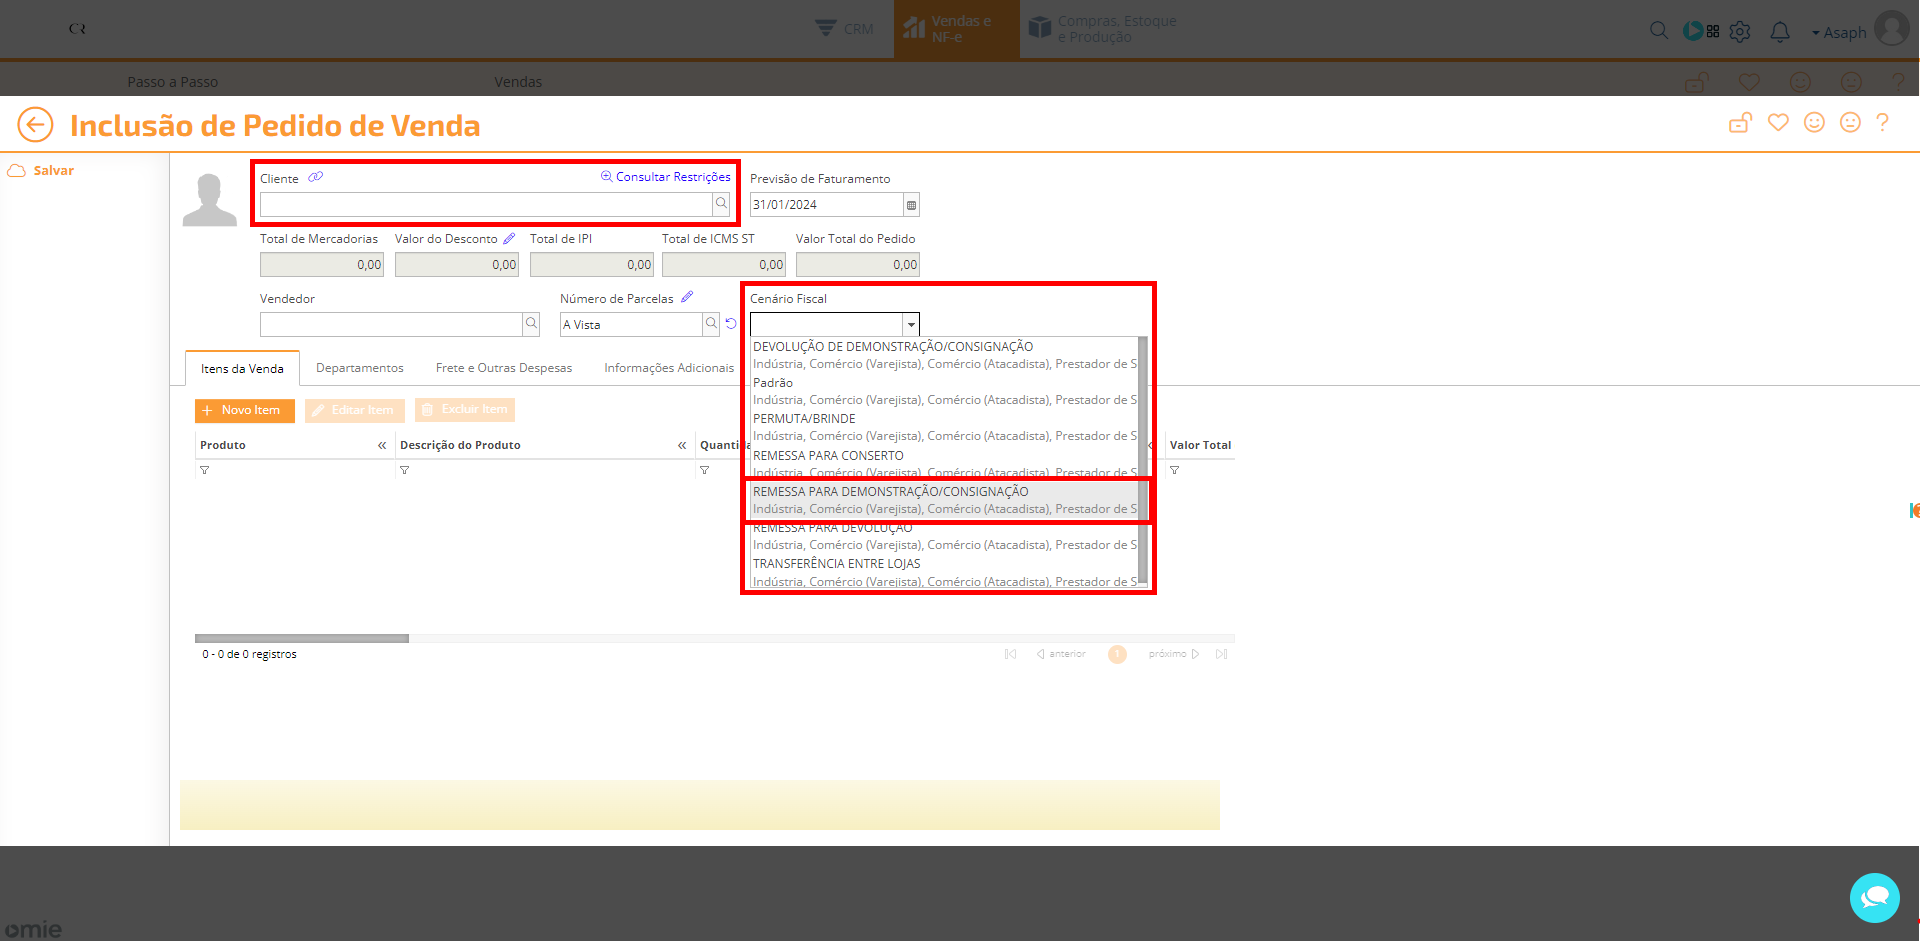
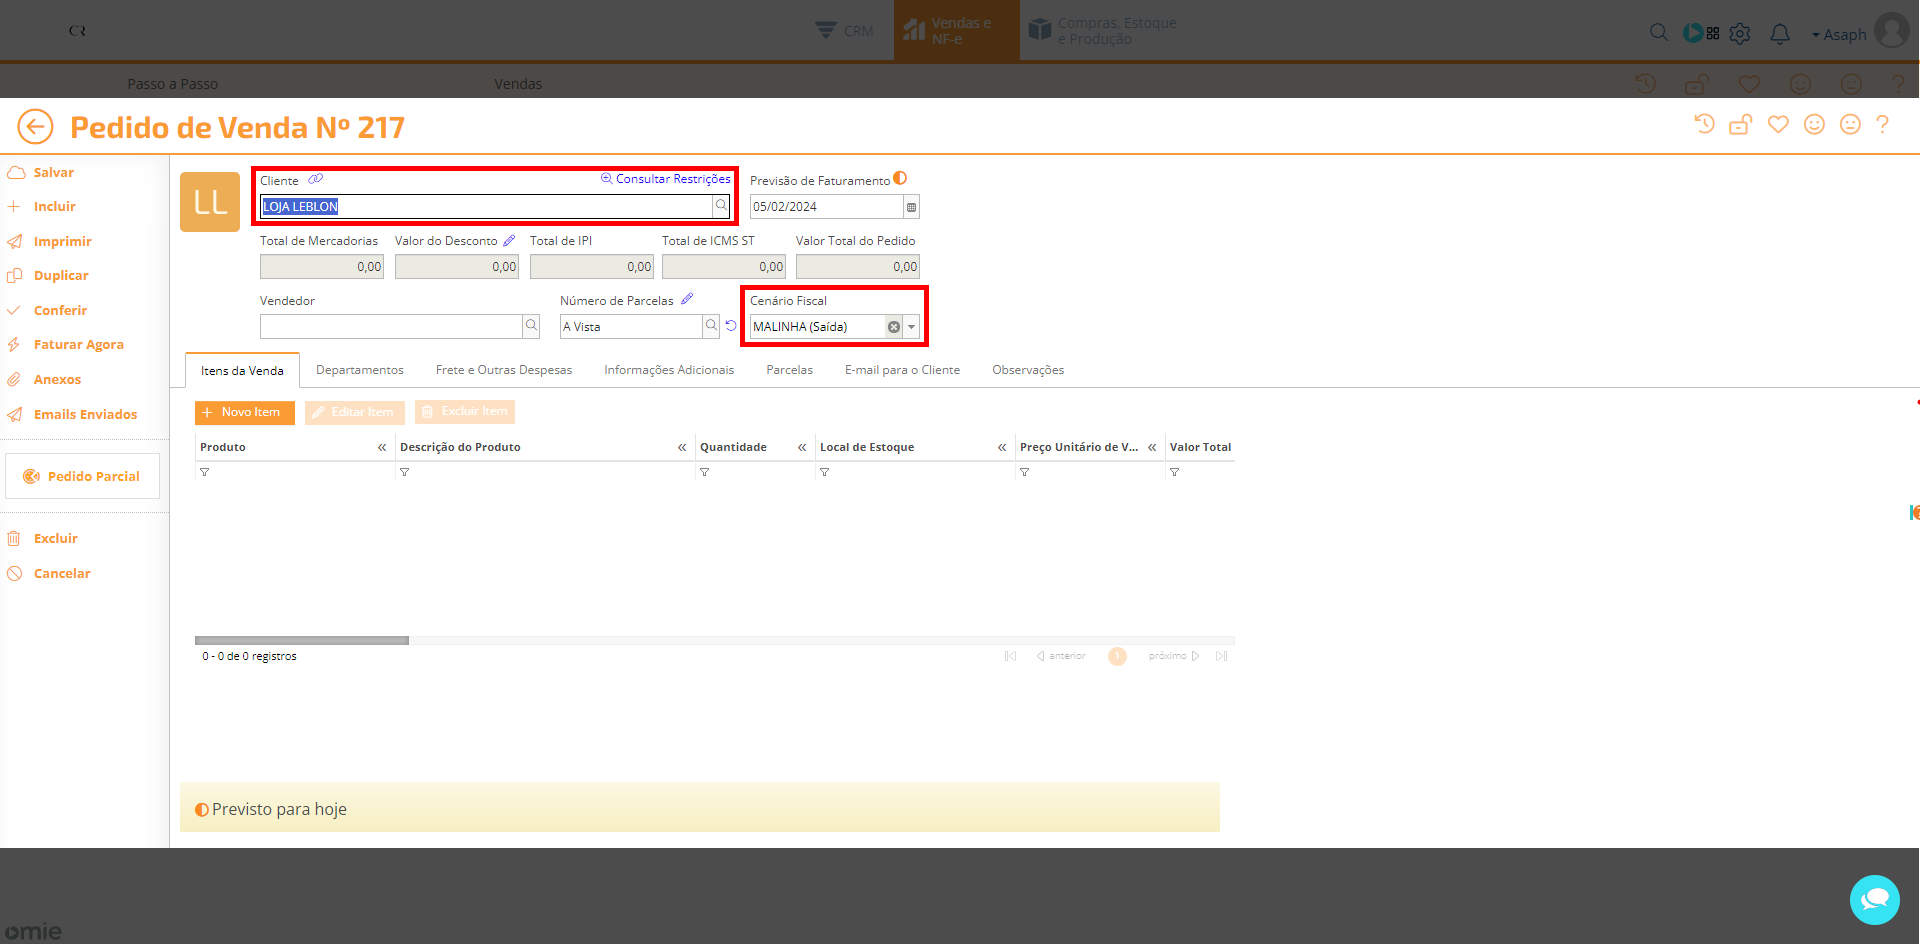
1.1.1 - construção malinha

diff --git a/erpIndex.html b/erpIndex.html
@@ -1,12 +1,18 @@
-<li class="navigation" onclick="loadPage(entradaDeNotas)">Entrada de notas</li>
-<li class="navigation" onclick="loadPage(emissaoDeNotas)">Emissão de notas</li>
-<ul>
-    <li class="navigation" onclick="loadPage(transferencia)">Transferências</li>
+<li class="reverted"><span class="navigation" onclick="loadPage(entradaDeNotas)">Entrada de notas</span>
     <ul>
-        <li class="navigation" onclick="loadPage(transferenciaEntreLojas)">Entre lojas</li>
-        <!-- <li class="navigation" onclick="loadPage(transferenciaParaMatriz)">Para matriz</li> -->
+        <li>Novo item</li>
     </ul>
-    <li class="navigation" onclick="loadPage(devolucao)">Devolução</li>
-    <!-- <li class="navigation" onclick="loadPage(malinha)">Malinha</li> -->
-    <!-- <li class="navigation" onclick="loadPage(demonstracao)">Remessa para Demonstração</li> -->
-</ul>
+</li>
+<li class="reverted"><span  class="navigation" onclick="loadPage(emissaoDeNotas)">Emissão de notas</span>
+    <ul>
+        <li><span class="navigation" onclick="loadPage(transferencia)">Transferências</span>
+            <ul>
+                <li class="navigation" onclick="loadPage(transferenciaEntreLojas)">Entre lojas</li>
+                <!-- <li class="navigation" onclick="loadPage(transferenciaParaMatriz)">Para matriz</li> -->
+            </ul>
+        </li>
+        <li class="navigation" onclick="loadPage(devolucao)">Devolução</li>
+        <li class="navigation" onclick="loadPage(malinha)">Malinha</li>
+        <!-- <li class="navigation" onclick="loadPage(demonstracao)">Remessa para Demonstração</li> -->
+    </ul>
+</li>

diff --git a/index.html b/index.html
@@ -28,15 +28,15 @@
         <main>
             <section>
                 <p>Esse é o manual de uso do sistema. Veja o índice para acessar a página que melhor lhe atende:</p>
-                <ul>
+                <ul class="main-nav">
                     <li class="navigation" onclick="loadPage(erp)">ERP</li>
-                    <ul class="erpIndex"></ul>
-                    <!-- <li class="navigation" onclick="loadPage(pdv)">PDV</li>
-                    <ul class="pdvIndex"></ul> -->
-                    <!-- <li class="navigation" onclick="loadPage(troca)">Troca</li>
-                    <ul class="trocaIndex"></ul> -->
-                    <!-- <li class="navigation" onclick="loadPage(preVenda)">Pré Venda</li>
-                    <ul class="preVendaIndex"></ul> -->
+                    <ul class="erpIndex sub-nav"></ul>
+                    <li class="navigation" onclick="loadPage(pdv)">PDV</li>
+                    <ul class="pdvIndex sub-nav"></ul>
+                    <li class="navigation" onclick="loadPage(troca)">Troca</li>
+                    <ul class="trocaIndex sub-nav"></ul>
+                    <li class="navigation" onclick="loadPage(preVenda)">Pré Venda</li>
+                    <ul class="preVendaIndex sub-nav"></ul>
                     <script>
                         let erpMenu = document.querySelector('.erpIndex');
                         let pdvMenu = document.querySelector('.pdvIndex');

diff --git a/pages/malinha.html b/pages/malinha.html
@@ -14,14 +14,20 @@
 
 <img src="pages/images/emissaoDeNotas/malinha/3 - novoPedidoDeVenda.png" alt="">
 
-<p>Na tela de inclusão de pedido de venda adicionar o Cliente e então inserir o cenário fiscal "REMESSA PARA DEMONSTRAÇÃO/CONSIGNAÇÃO".</p>
+<p>Na tela de inclusão de pedido de venda adicionar o Cliente e então inserir o cenário fiscal "MALINHA (Saída)".</p>
 
 <img src="pages/images/emissaoDeNotas/malinha/4 - clienteCenario.png" alt="">
 
-<p>Agora é possível salvar o pedido de venda e entrar no campo "Informações adicionais"</p>
+<p>Agora é possível salvar o pedido de venda e entrar no campo "Informações adicionais" e selecionar a categoria "Entradas - Malinha" e a conta corrente "Omie.CASH".</p>
 
-<img src="pages/images/emissaoDeNotas/malinha/" alt="">
-<img src="pages/images/emissaoDeNotas/malinha/" alt="">
+<img src="pages/images/emissaoDeNotas/malinha/5 - categoriaConta.png" alt="">
+
+<p>Após isso podemos adicionar um novo item em "Itens da Venda" e então "Novo Item".</p>
+
+<img src="pages/images/emissaoDeNotas/malinha/6 - novoItem.png" alt="">
+
+<p>E então devemos inserir os itens, tendo sempre atenção ao campo "Não gerar contas a receber", nesse caso não deve gerar uma conta a receber.</p>
+
 <img src="pages/images/emissaoDeNotas/malinha/" alt="">
 <img src="pages/images/emissaoDeNotas/malinha/" alt="">
 <img src="pages/images/emissaoDeNotas/malinha/" alt="">
